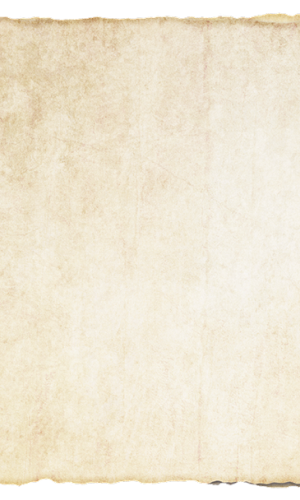
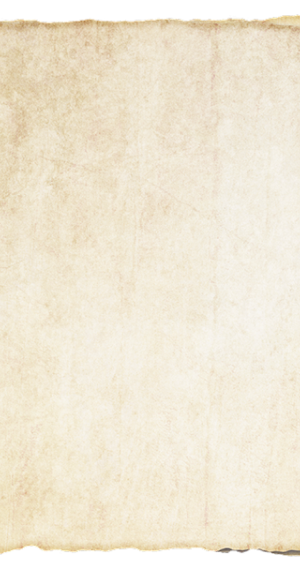
bg image height change 2

diff --git a/src/СontactForm/style.css b/src/СontactForm/style.css
@@ -79,7 +79,7 @@ label {
   .modal-container {
     /* background-image: url("/Users/valeri.beizer/Desktop/Websites (work)/Livskraft/livskraft/public/tsInfo-bg-mb.png"); */
     /* background-image: url("/tsInfo-bg-mb.png"); */
-    height: 500px;
+    height: 570px;
     padding-top: 8%;
   }
 

diff --git a/src/Tsjänster Info/style.css b/src/Tsjänster Info/style.css
@@ -57,7 +57,7 @@
   .tsInfo-container {
     /* background-image: url("/Users/valeri.beizer/Desktop/Websites (work)/Livskraft/livskraft/public/tsInfo-bg-mb.png"); */
     /* background-image: url("/tsInfo-bg-mb.png"); */
-    height: 500px;
+    height: 570px;
   }
 
   .p-tsInfo {

diff --git a/src/SuccessMsg/style.css b/src/SuccessMsg/style.css
@@ -36,6 +36,6 @@
 @media (max-width: 560px) {
   .scs-msg-container {
     /* background-image: url("/Users/valeri.beizer/Desktop/Websites (work)/Livskraft/livskraft/public/tsInfo-bg-mb.png"); */
-    height: 500px;
+    height: 570px;
   }
 }
